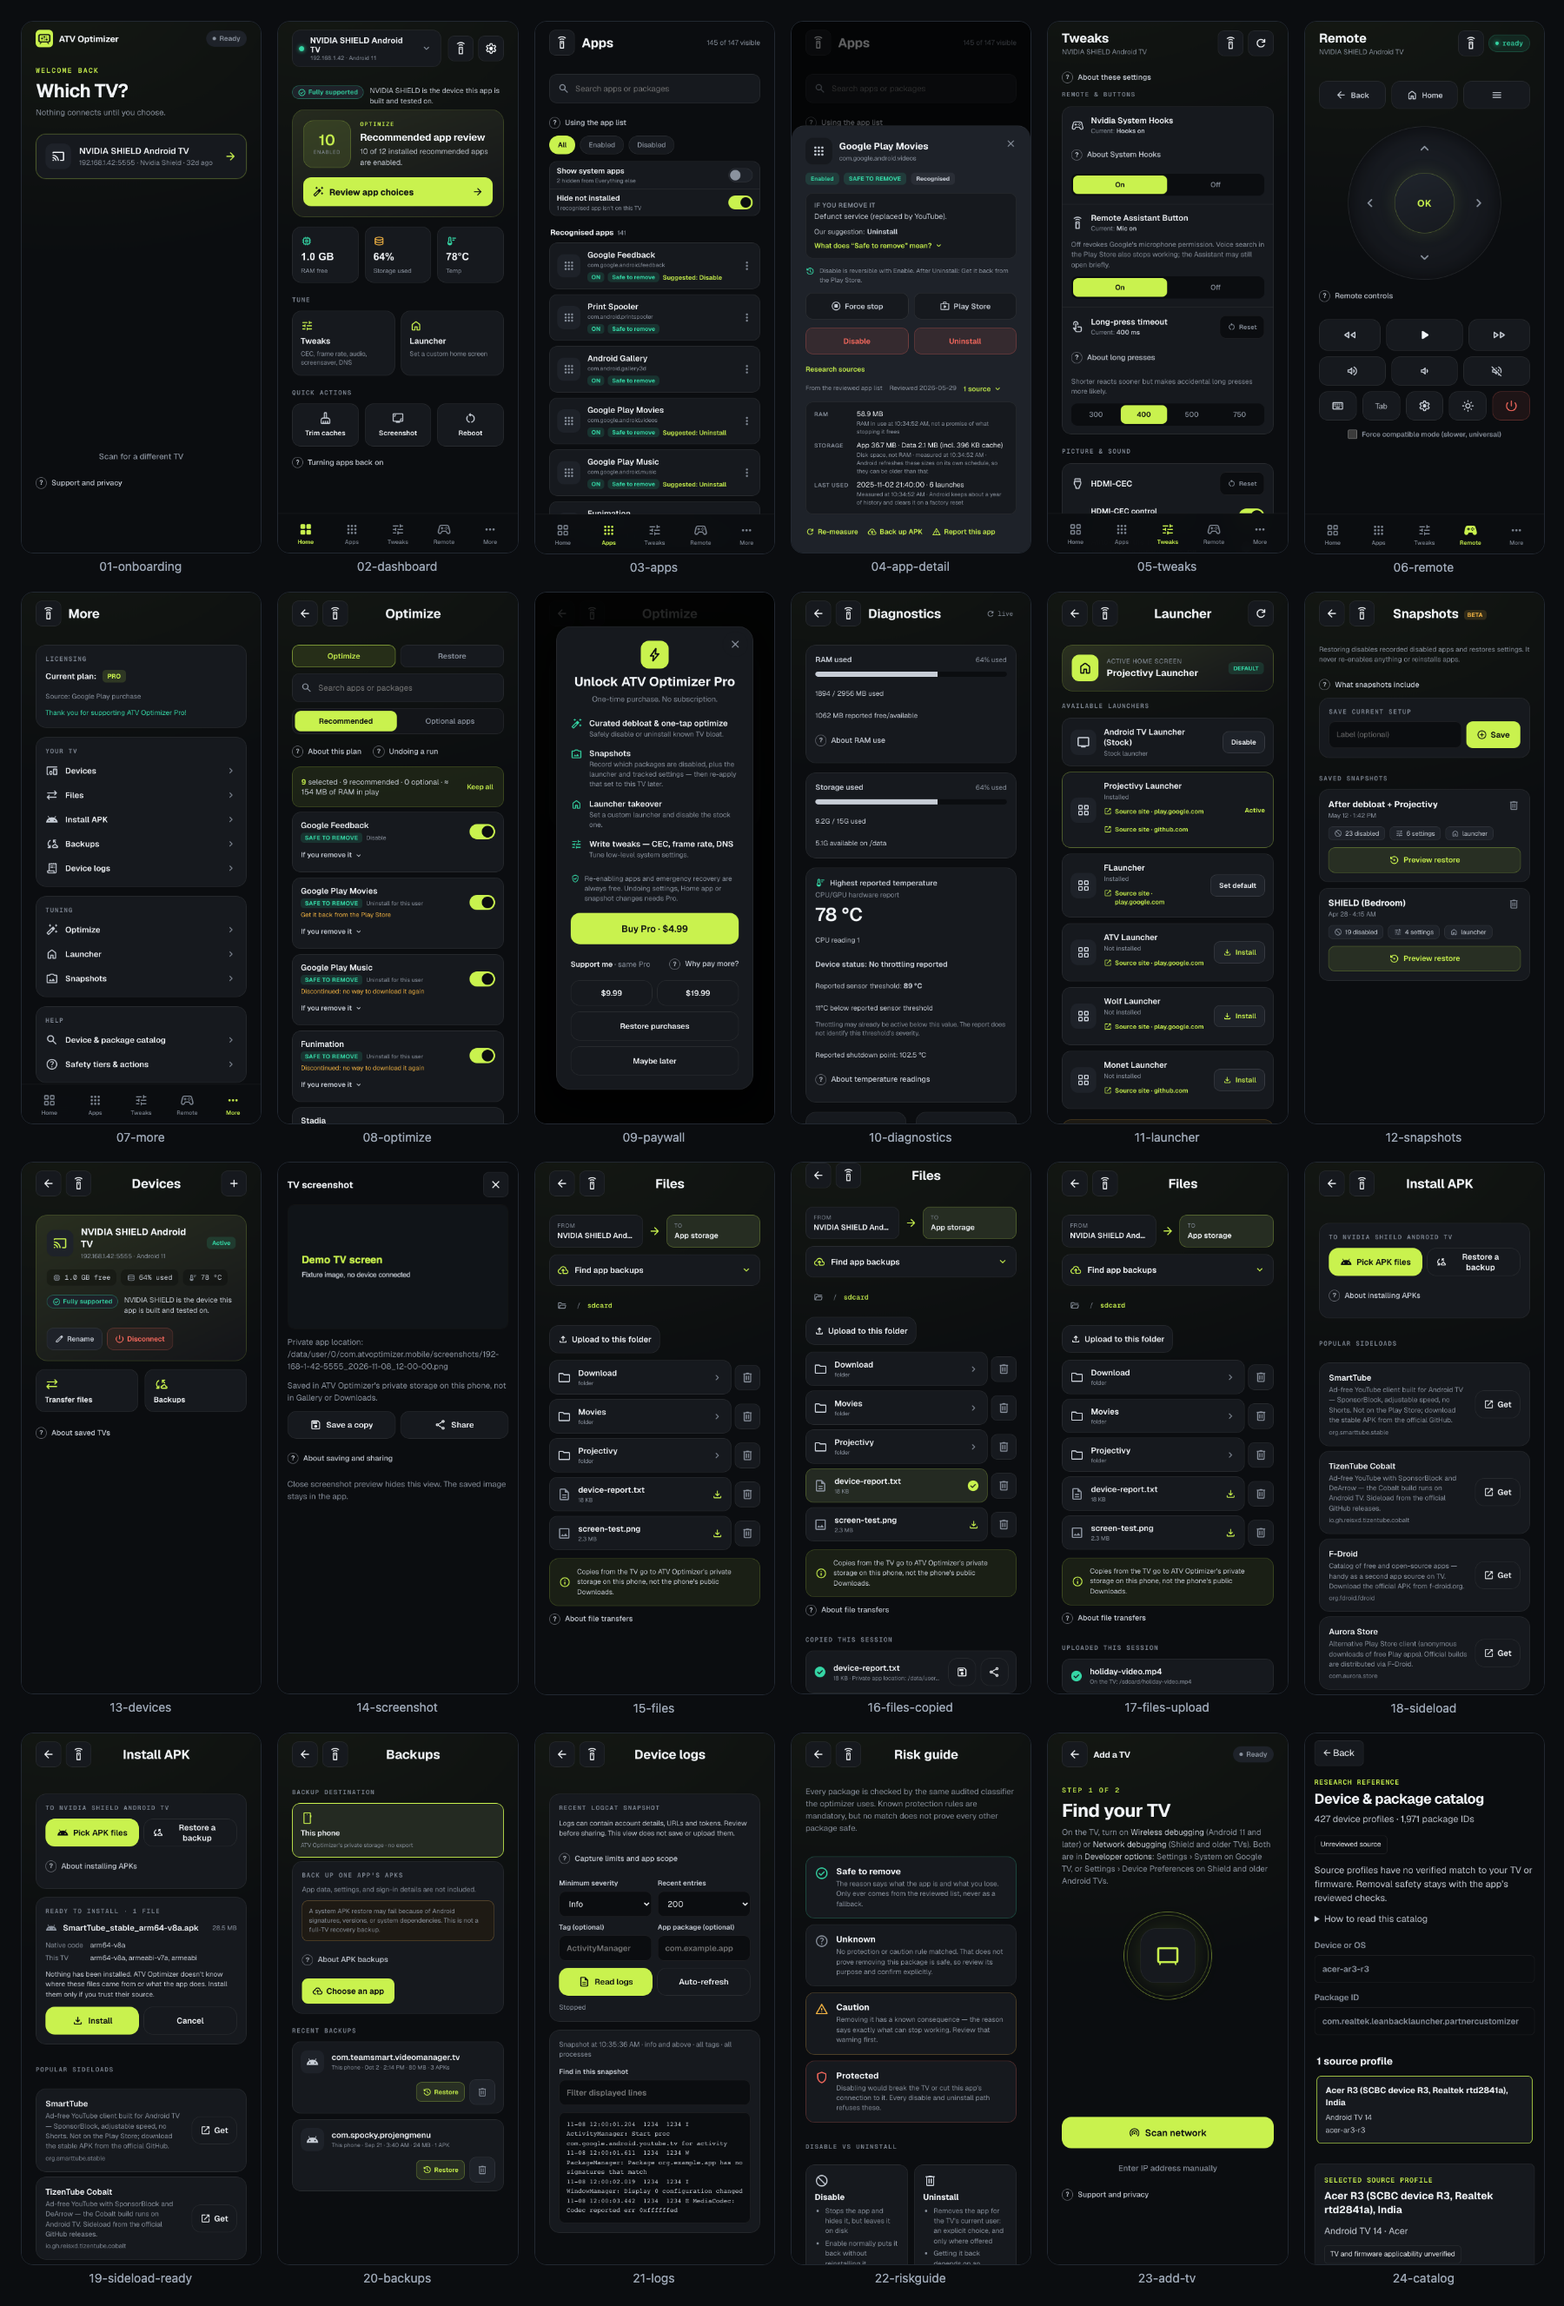
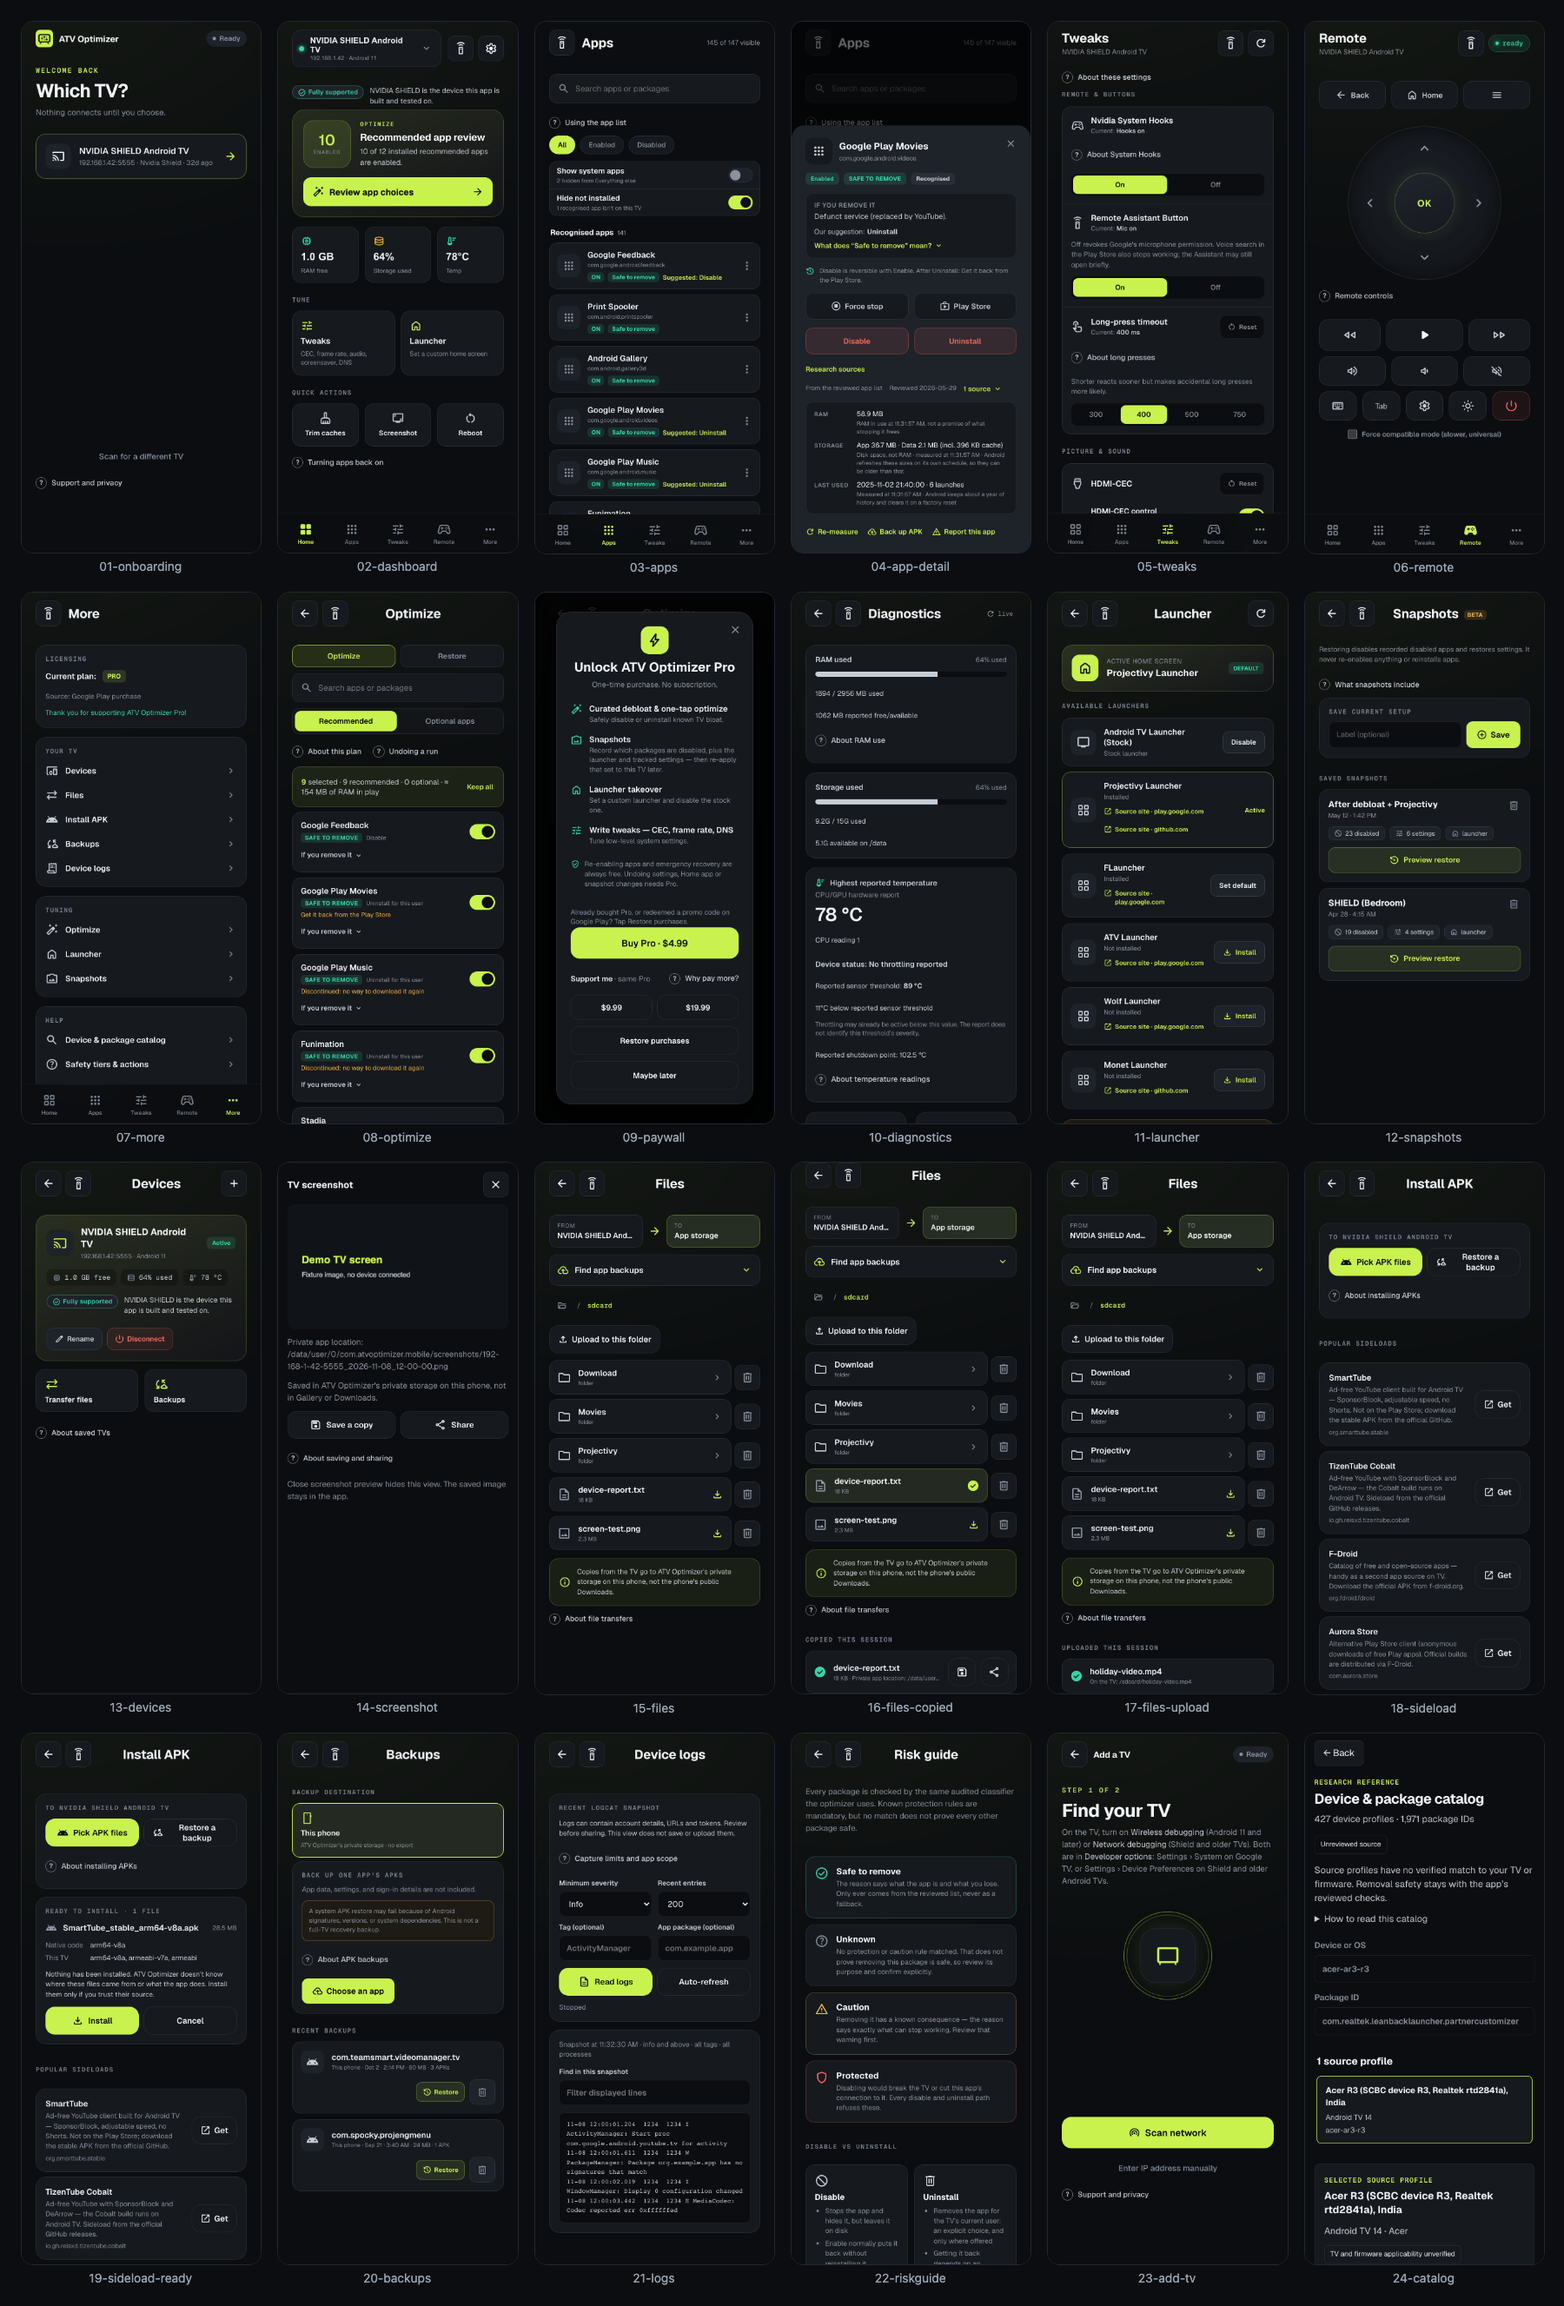
Refresh the phone gallery after merging main, and fold the debug logging note into help

Changed region(s): [[0.3422, 0.2472, 0.4978, 0.4943]]

diff --git a/v2/src/routes/+layout.svelte b/v2/src/routes/+layout.svelte
@@ -845,11 +845,15 @@
       <input type="checkbox" checked={debugLogging} onchange={toggleDebugLogging} />
       Debug logging
     </label>
-    <p class="bug-prose muted">
-      While it's on, this session is also recorded (adb calls and the buttons you press) to
-      <span class="mono">logs/sessions</span>. That recording stays on this computer and is never
-      part of this report.
-    </p>
+    <div class="bug-reports-help">
+      <HelpDetails label="What debug logging records">
+        <p>
+          While it's on, this session is also recorded (adb calls and the buttons you press) to
+          <span class="mono">logs/sessions</span>. That recording stays on this computer and is never
+          part of this report.
+        </p>
+      </HelpDetails>
+    </div>
     <p class="bug-path muted mono">
       {logPath ? `Logs: ${logPath}` : "Logs: (no log folder)"}
     </p>
